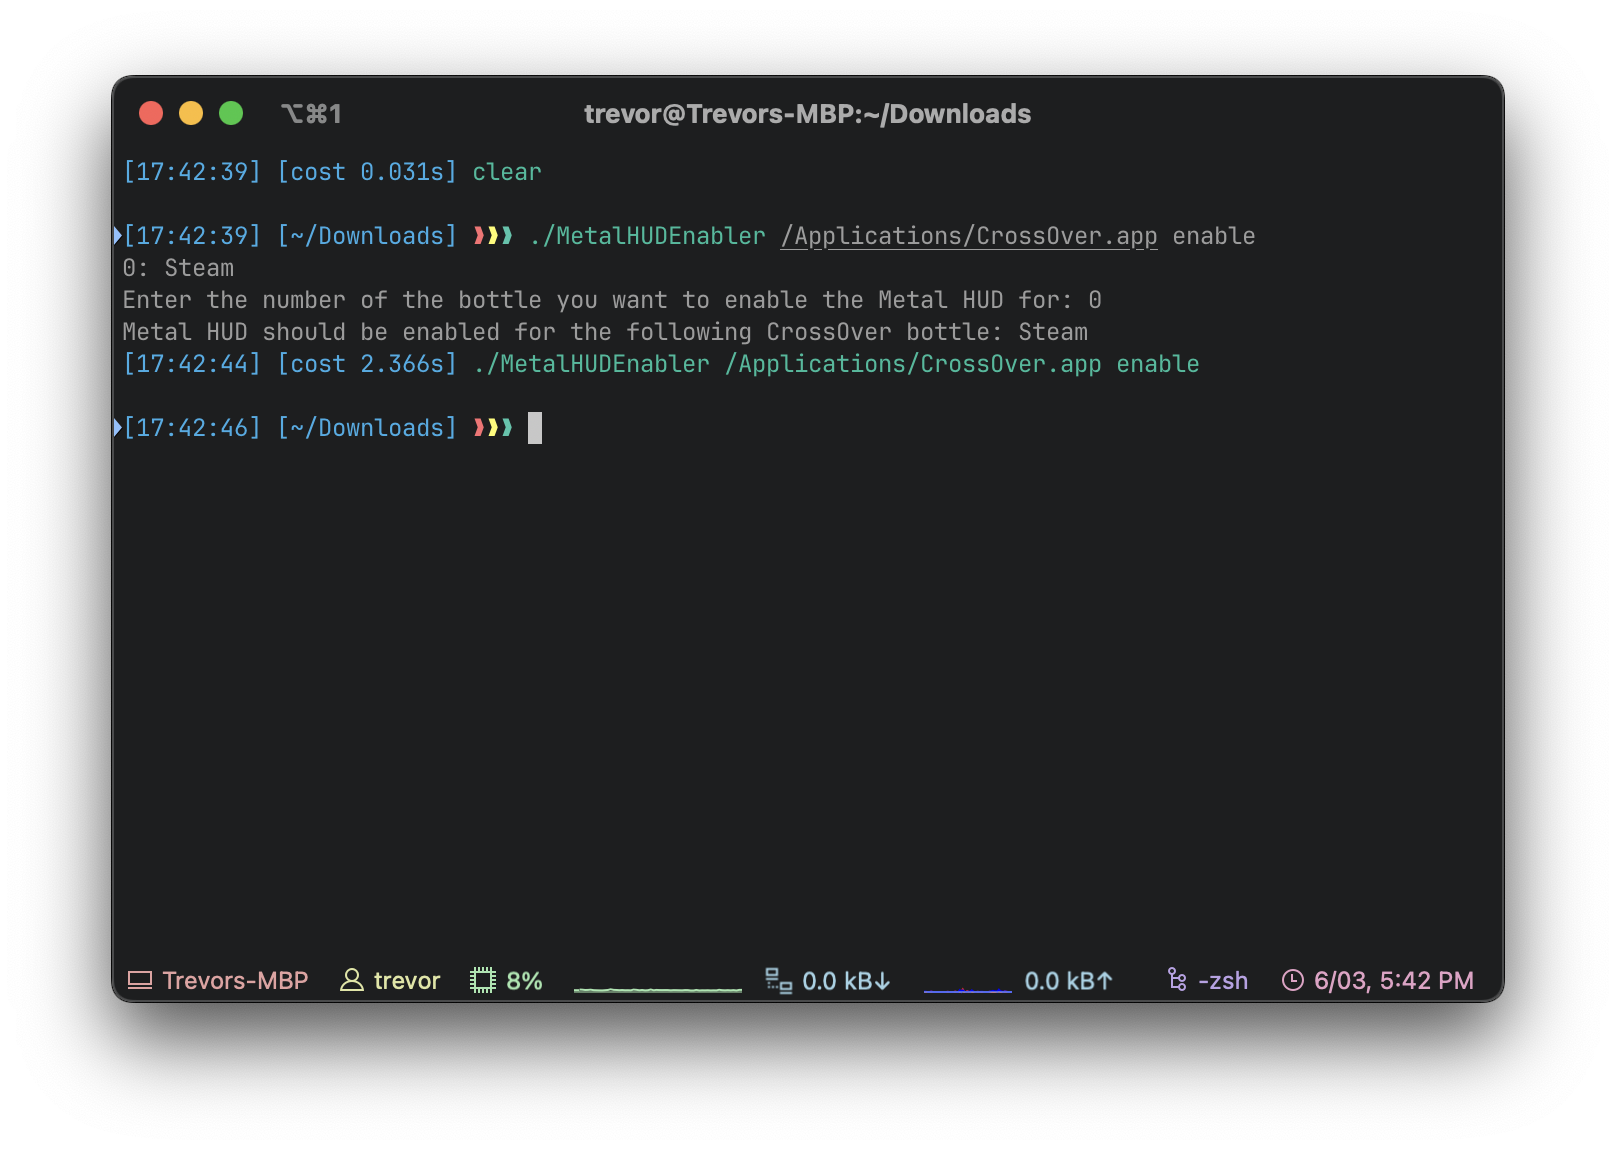
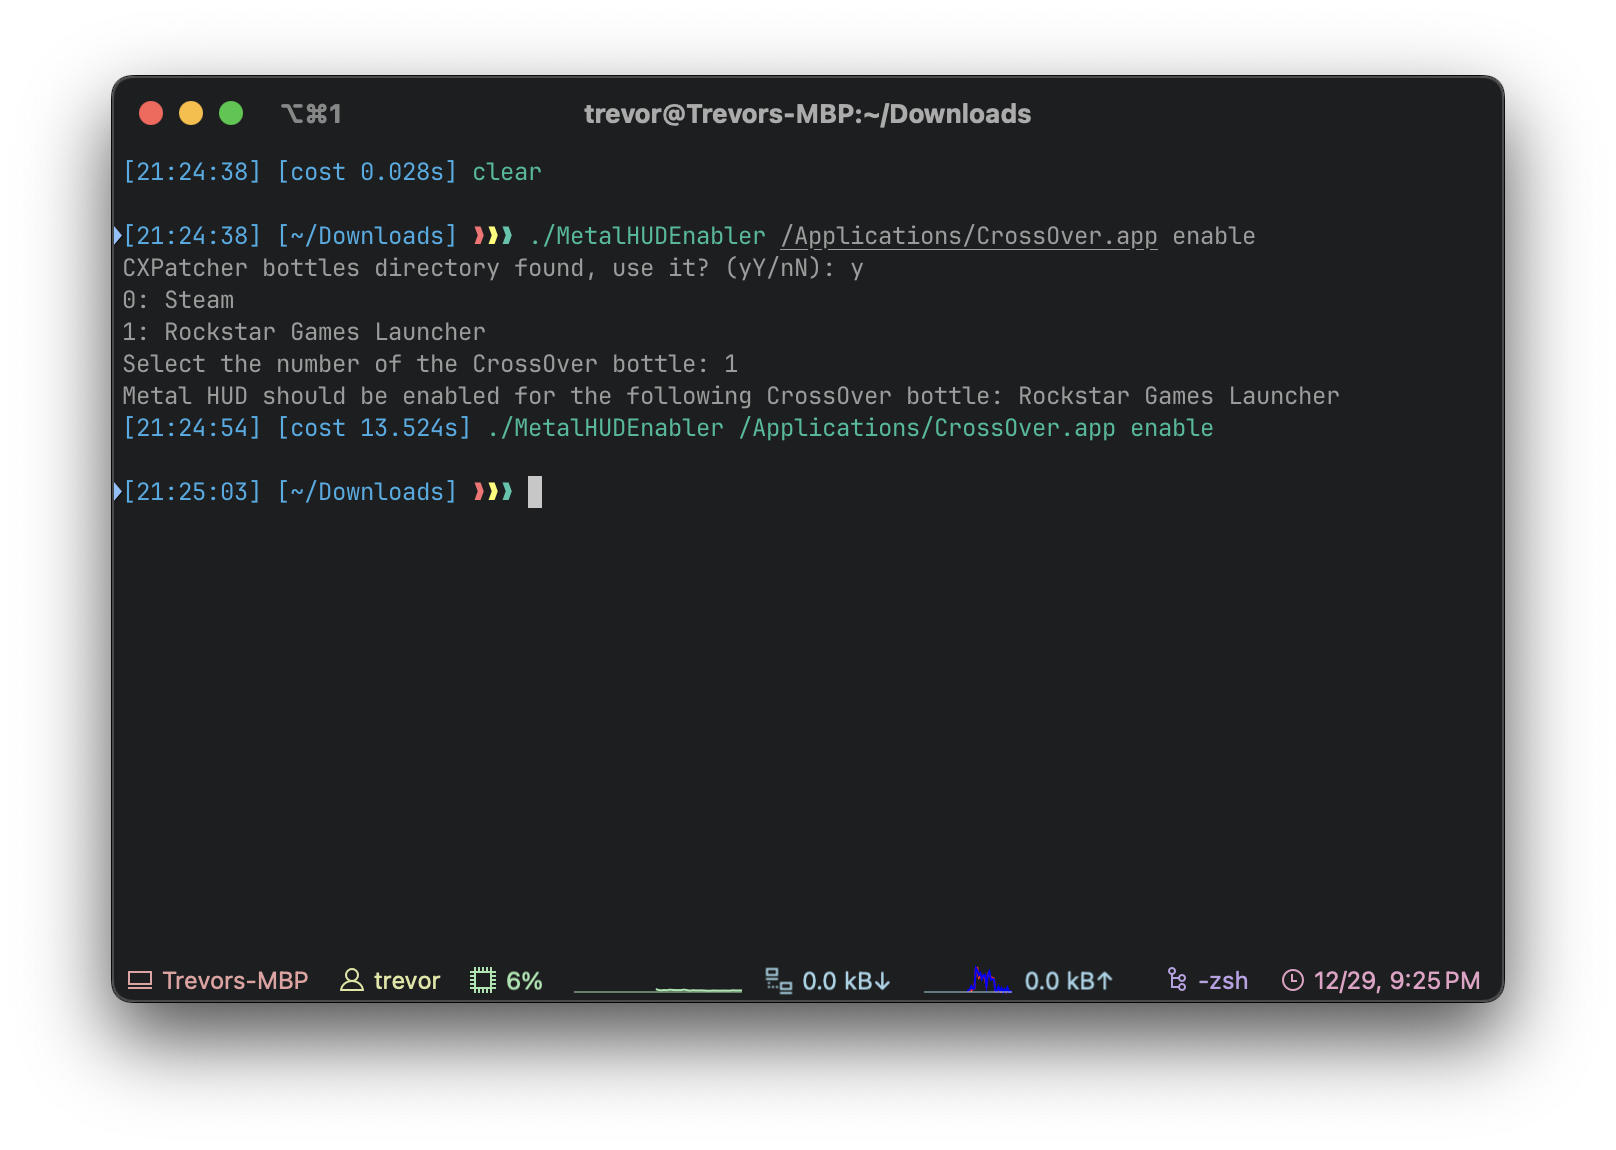
CXPatcher support, README changes

diff --git a/MetalHUDEnabler/main.m b/MetalHUDEnabler/main.m
@@ -45,8 +45,24 @@ void disableMetalHUD(NSString *bundleIdentifier) {
 }
 
 void cxMethod(const char *flag) {
-    // set NSString path to ~/Library/Application Support/CrossOver/Bottles/
-    NSString *bottlesPath = [NSHomeDirectory() stringByAppendingString:@"/Library/Application Support/CrossOver/Bottles/"];
+    NSString *bottlesPath = nil;
+    // check if ~/CXPBottles/ exists
+    if (!stat([[NSHomeDirectory() stringByAppendingString:@"/CXPBottles/"] UTF8String], &st)) {
+        // ask if user wants to use ~/CXPBottles/
+        printf("CXPatcher bottles directory found, use it? (yY/nN): ");
+        char answer;
+        scanf("%c", &answer);
+        if (answer == 'n' || answer == 'N') {
+            bottlesPath = [NSHomeDirectory() stringByAppendingString:@"/Library/Application Support/CrossOver/Bottles/"];
+        }
+        else if (answer == 'y' || answer == 'Y') {
+            bottlesPath = [NSHomeDirectory() stringByAppendingString:@"/CXPBottles/"];
+        }
+        else {
+            printf("Invalid answer, aborting.\n");
+            exit(1);
+        }
+    }
     // NSArray of bottles
     NSArray *bottles = [[NSFileManager defaultManager] contentsOfDirectoryAtPath:bottlesPath error:nil];
     if ([bottles count] == 0) {

diff --git a/README.md b/README.md
@@ -1,6 +1,6 @@
 # MetalHUDEnabler
 
-MetalHUDEnabler allows for permanently enabling the new Metal 3 performance HUD on a per-application basis for any Metal-enabled application on macOS Ventura.
+MetalHUDEnabler allows for permanently enabling the new Metal 3 performance HUD on a per-application basis for any application that uses the Metal framework on macOS Ventura and later.
 
 ![Metal HUD enabled on Grand Theft Auto: Vice City - The Definitive Edition running through CrossOver](screens/vc_hud.png "Metal HUD enabled on Grand Theft Auto: Vice City - The Definitive Edition running through CrossOver")
 ![Metal HUD enabled on NEEDY GIRL OVERDOSE](screens/ngo_hud.png "Metal HUD enabled on NEEDY GIRL OVERDOSE")
@@ -10,17 +10,17 @@ MetalHUDEnabler allows for permanently enabling the new Metal 3 performance HUD 
 
 Using MetalHUDEnabler is as easy as executing ``./MetalHUDEnabler [path to application] [enable/disable]`` then simply launching the application through whatever means you normally would.
 
-``./MetalHUDEnabler </path/to/CrossOver.app> enable`` will launch a menu that will allow the user to enable the Metal 3 performance HUD on a per-bottle basis by setting the ``MTL_HUD_ENABLED`` environment variable to ``1`` in the chosen bottle's ``cxbottle.conf``. In the below screenshot, I am using my CrossOver bottle for Steam as an example.
+``./MetalHUDEnabler </path/to/CrossOver.app> enable`` will launch a menu that will allow the user to enable the Metal 3 performance HUD on a per-bottle basis by setting the ``MTL_HUD_ENABLED`` environment variable to ``1`` in the chosen bottle's ``cxbottle.conf``. In the below screenshot, I am using my CrossOver bottle for the Rockstar Games Launcher as an example.
 ![The enabling process in MetalHUDEnabler when CrossOver is the chosen application](screens/cxenable.png "The enabling process in MetalHUDEnabler when CrossOver is the chosen application")
 
 ``./MetalHUDEnabler </path/to/other.app> enable`` will instead just directly enable the Metal 3 performance HUD by writing a boolean ``MetalForceHudEnabled = true`` to that specific application's defaults. In the below screenshot, I am using a macOS-native game *NEEDY GIRL OVERDOSE* as an example.
-![The enableing process in MetalHUDEnabler when using any other Metal-enabled application](screens/ngoenable.png "The enableing process in MetalHUDEnabler when using any other Metal-enabled application")
+![The enabling process in MetalHUDEnabler when choosing any other application](screens/ngoenable.png "The enabling process in MetalHUDEnabler when choosing any other application")
 
 Disabling the Metal 3 performance HUD works the exact same way as enabling it, just replace ``enable`` in the previous command(s) with ``disable``. 
 - For CrossOver bottles, it will remove the ``MTL_HUD_ENABLED`` environment variable from the bottle's ``cxbottle.conf``
 - For any other Metal-enabled application, it will delete the ``MetalForceHudEnabled`` boolean from that application's defaults.
 
 # Anything else?
-This should **theoretically** work with any Metal-enabled application. Please let me know of any issues.
+This should **theoretically** work with any application that uses Metal. Please let me know of any issues.
 
 That being said, I am not responsible for any damages and you are running this application at your own risk *although I don't see much of a possibility for things to go wrong here*. Have fun.
